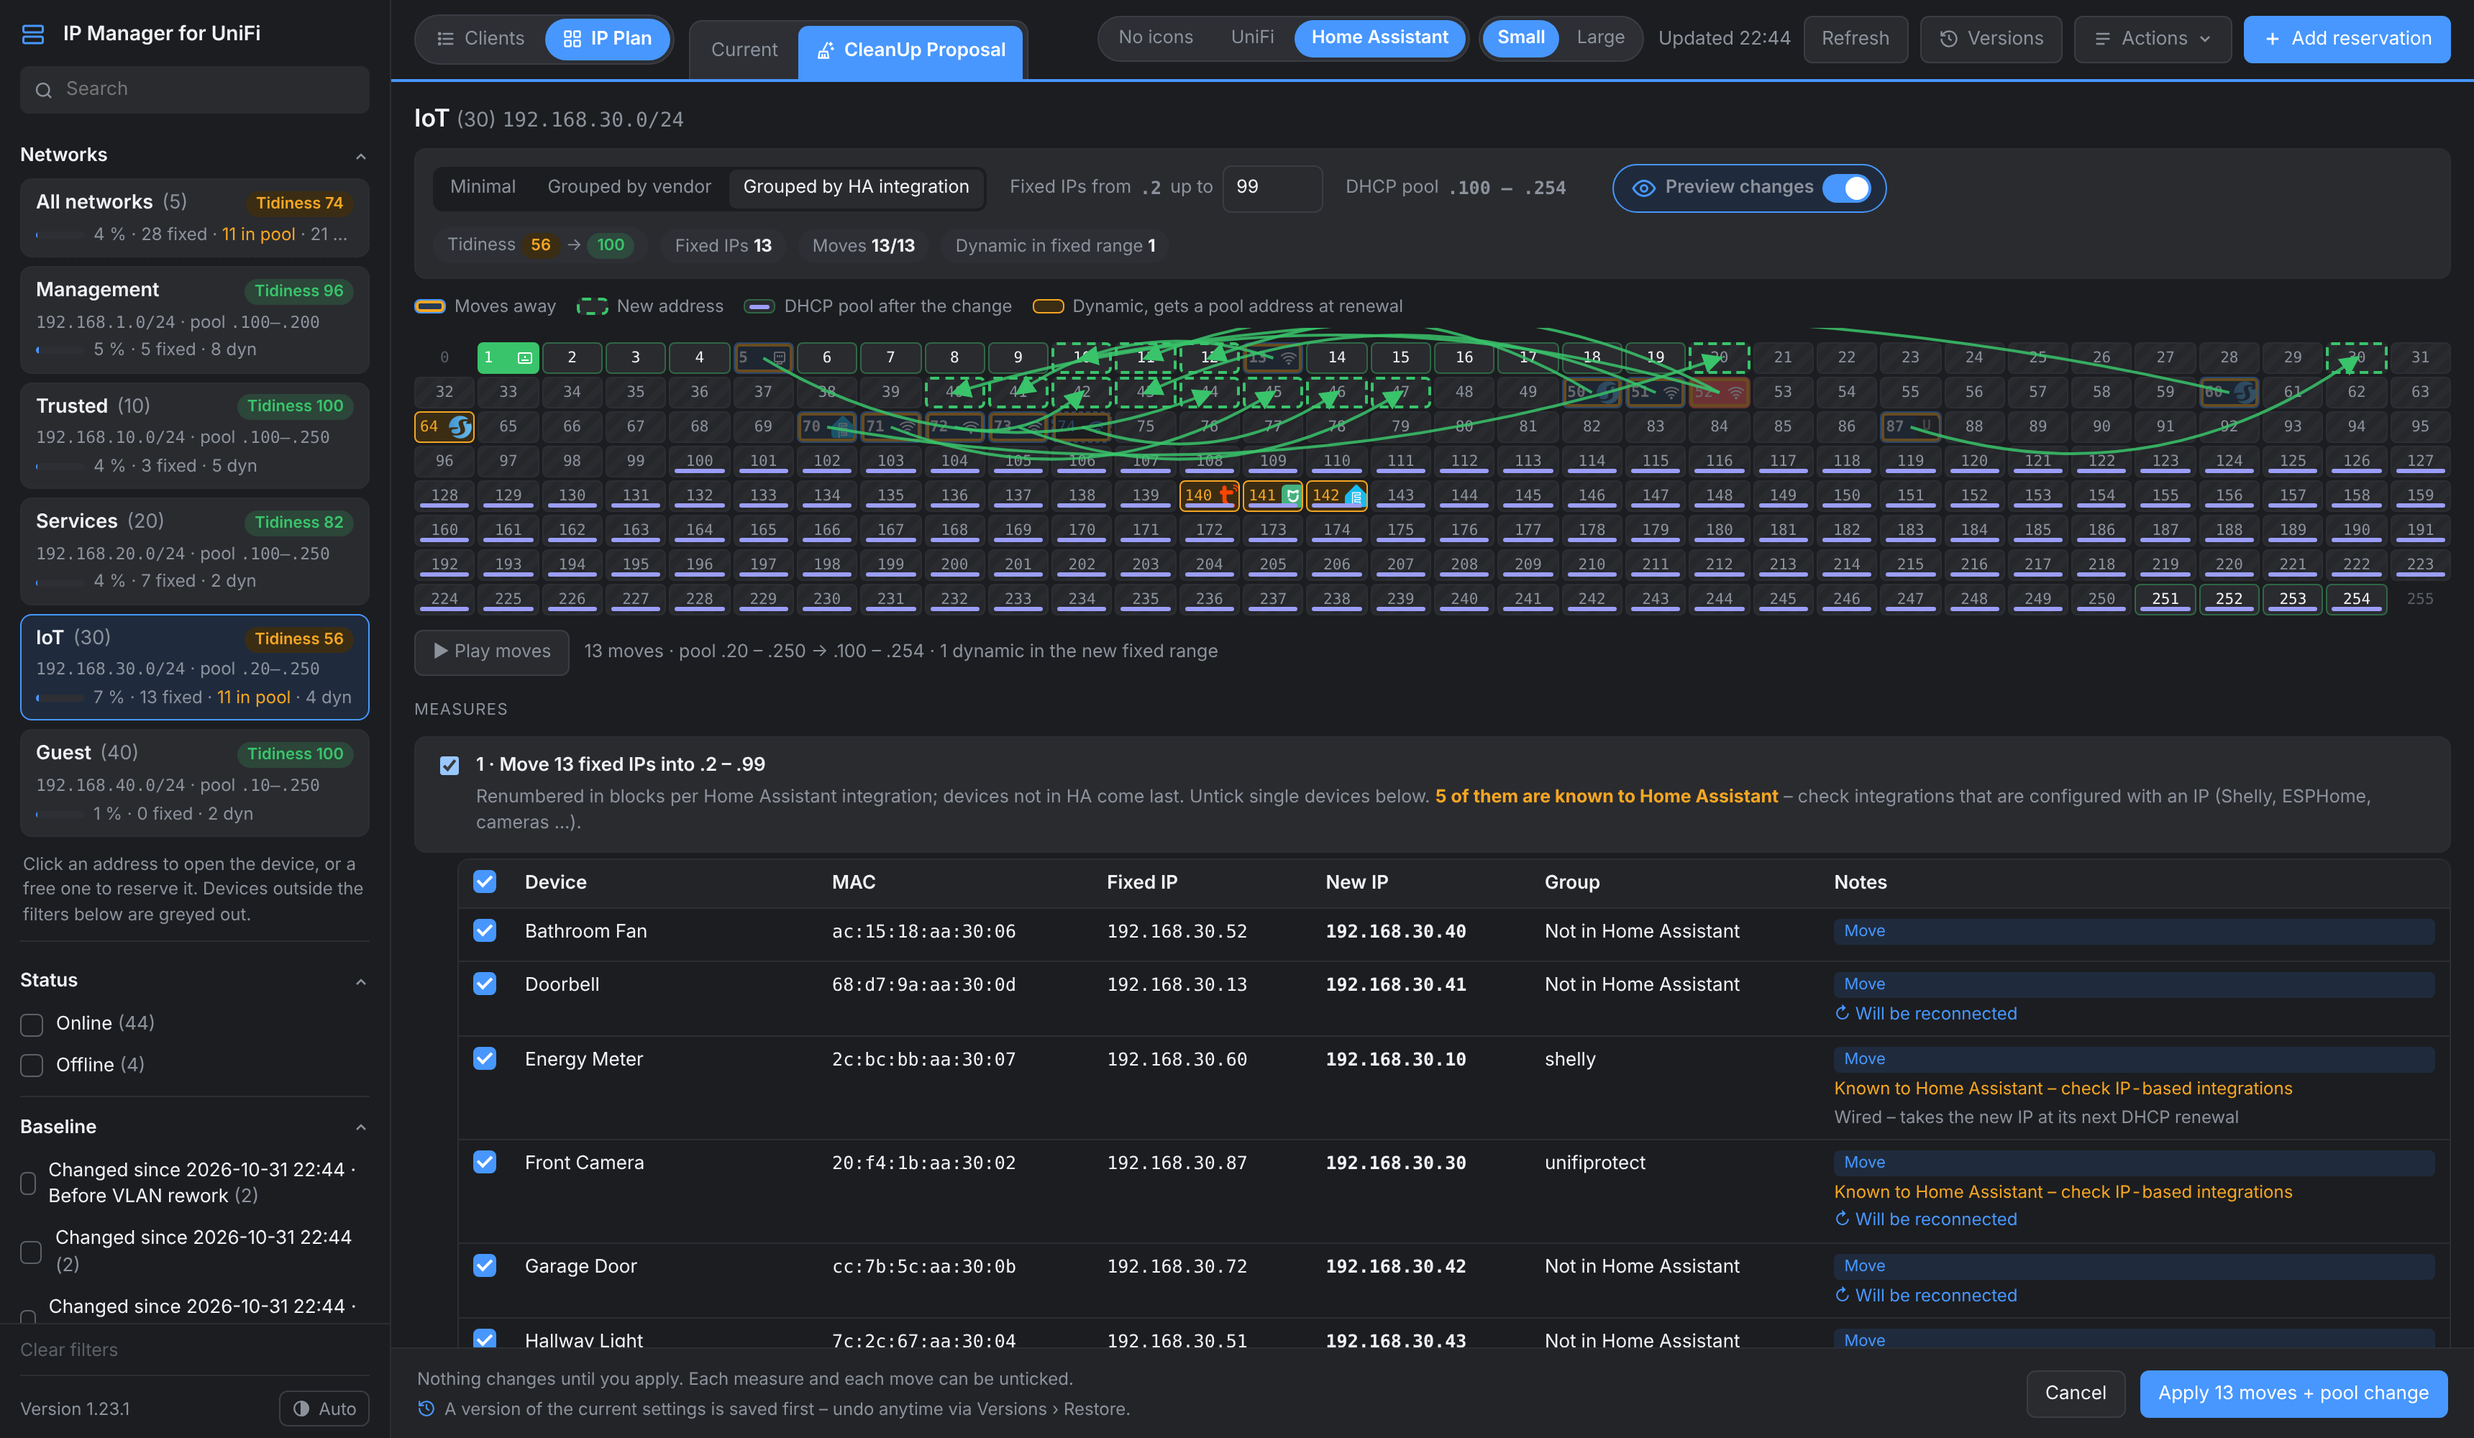
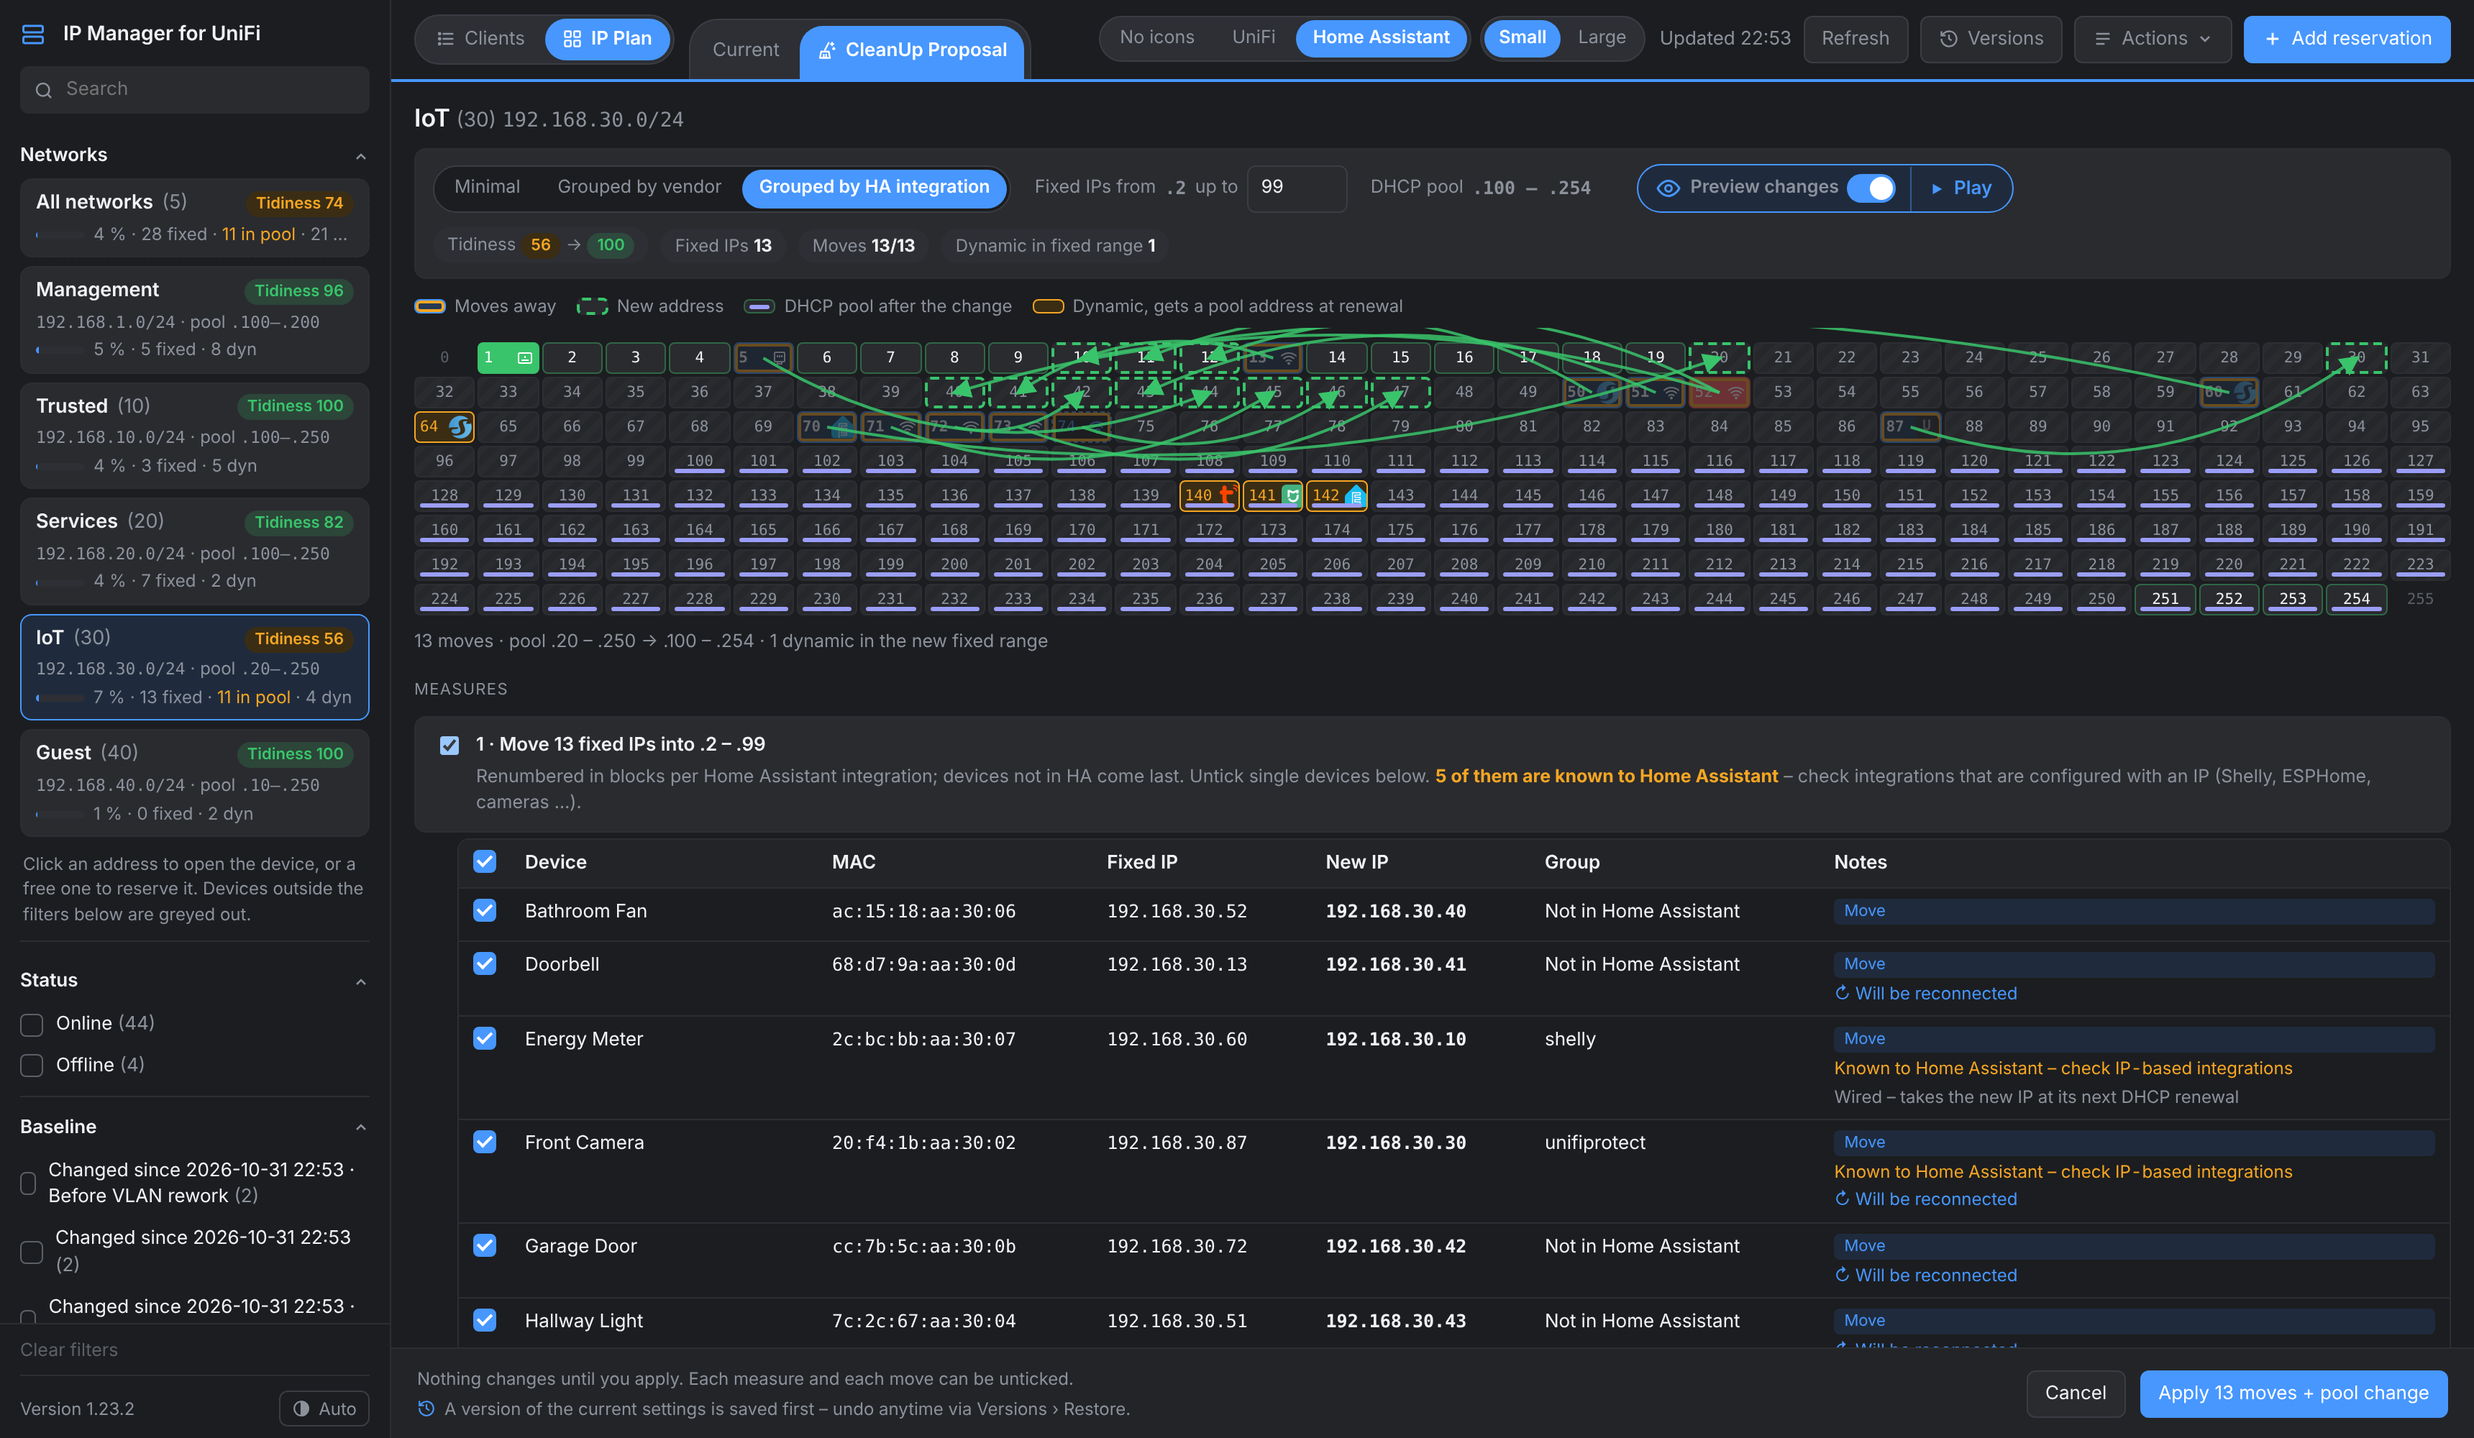
1.23.2: rounded blue switches, conflicts column, Play inside the Preview changes switch
Claude-Session: https://claude.ai/code/session_01Qq55cKasRq5dm39rxnrsJV

diff --git a/dhcp_reservations/app/static/index.html b/dhcp_reservations/app/static/index.html
@@ -323,12 +323,18 @@ body.plan-mode #lnkCols,body.plan-mode .topbar>.viewsel,body.plan-mode #count,bo
 .tidy.bad{background:var(--bad-bg);color:var(--bad)}
 .plan-head{display:flex;align-items:center;gap:6px 16px;flex-wrap:wrap;margin-bottom:8px}
 /* Current / CleanUp Proposal: tabs on a shared track (between the Clients / IP Plan switch and a tab bar) */
-.topbar .plan-tabs{margin:0 0 -10px;position:relative;z-index:1;border:1px solid var(--line-strong);border-bottom:0;flex:none;gap:2px;background:var(--chip);border-radius:9px 9px 0 0;padding:3px 3px 0;align-self:flex-end} /* -10px = padding: the tabs end exactly on the (blue) header line */
-.plan-tabs button[role="tab"]{font-size:13.5px;padding:7px 14px 9px;border-radius:7px 7px 0 0;border-bottom:0;display:inline-flex;align-items:center}
+.topbar .plan-tabs{margin:0 0 -10px;position:relative;z-index:1;border:1px solid var(--line-strong);border-bottom:0;flex:none;gap:2px;background:var(--chip);border-radius:20px 20px 0 0;padding:4px 4px 0;align-self:flex-end} /* -10px = padding: the tabs end exactly on the (blue) header line */
+.plan-tabs button[role="tab"]{font-size:13.5px;padding:7px 16px 9px;border-radius:16px 16px 0 0;border-bottom:0;display:inline-flex;align-items:center}
 .plan-tabs button[role="tab"]:hover{color:var(--fg)}
 .topbar .plan-tabs button[role="tab"][aria-selected="true"]{background:var(--accent);color:#fff;font-weight:600}
 body.plan-mode .topbar{border-bottom:2px solid var(--accent)}
 .prev-toggle{display:inline-flex;align-items:center;gap:8px;padding:6px 10px 6px 12px;border:1px solid var(--line-strong);border-radius:999px;background:var(--bg);cursor:pointer;font-size:13.5px;font-weight:600;color:var(--fg);user-select:none}
+.prev-group{display:inline-flex;align-items:center;border:1px solid var(--line-strong);border-radius:999px;background:var(--bg)}
+.prev-group:has(input:checked){border-color:var(--accent);background:var(--sel)}
+.prev-group .prev-toggle{border:0;background:transparent}
+.prev-group:has(input:checked) .prev-toggle{background:transparent}
+.play-btn{display:inline-flex;align-items:center;gap:6px;border:0;border-left:1px solid color-mix(in srgb,var(--accent) 45%,transparent);background:transparent;color:var(--accent);font:inherit;font-size:13px;font-weight:600;padding:6px 14px 6px 12px;border-radius:0 999px 999px 0;cursor:pointer}
+.play-btn:hover{background:color-mix(in srgb,var(--accent) 18%,transparent)}
 .prev-toggle input{position:absolute;opacity:0;pointer-events:none}
 .prev-toggle svg{color:var(--muted)}
 .prev-toggle .sw{position:relative;width:34px;height:20px;border-radius:999px;background:var(--line-strong);transition:background .2s}
@@ -367,9 +373,9 @@ body.plan-mode .topbar{border-bottom:2px solid var(--accent)}
 .cl-ctrl{display:flex;flex-wrap:wrap;align-items:center;gap:10px 16px;margin-bottom:10px}
 .cl-ctrl label{font-size:12.5px;color:var(--muted);display:inline-flex;align-items:center;gap:6px}
 .cl-ctrl input[type=number]{width:70px}
-.seg{display:inline-flex;background:var(--bg);border-radius:7px;padding:2px;gap:2px}
-.seg button{border:0;background:transparent;color:var(--muted);padding:4px 10px;border-radius:5px;cursor:pointer;font-size:12.5px}
-.seg button[aria-pressed="true"]{background:var(--card);color:var(--fg)}
+.seg{display:inline-flex;background:var(--bg);border:1px solid var(--line-strong);border-radius:999px;padding:2px;gap:2px}
+.seg button{border:0;background:transparent;color:var(--muted);padding:4px 12px;border-radius:999px;cursor:pointer;font-size:12.5px}
+.seg button[aria-pressed="true"]{background:var(--accent);color:#fff;font-weight:600}
 .cl-tabs{display:flex;gap:4px;border-bottom:1px solid var(--line);margin:6px 0 12px}
 .cl-tabs button[role="tab"]{border:0;background:transparent;color:var(--muted);padding:8px 12px;cursor:pointer;border-bottom:2px solid transparent;font-size:13px}
 .cl-tabs button[role="tab"][aria-selected="true"]{color:var(--fg);border-bottom-color:var(--accent)}
@@ -562,7 +568,7 @@ body.side-off .menu-btn{display:inline-flex}
         <label class="cl-one">DHCP pool <b class="mono" id="clPool"></b></label>
         <label class="cl-multi" title="Size of the fixed block at the start of every network; empty = a suggestion per network">Fixed block <input type="number" id="clPct" min="10" max="90" step="5" placeholder="auto"> % of each network</label>
         <span class="sp"></span>
-        <label class="prev-toggle" title="Show every move as an arrow and play the animation"><input type="checkbox" id="clPreview"><svg width="18" height="18" viewBox="0 0 24 24" fill="none" stroke="currentColor" stroke-width="2" stroke-linecap="round" stroke-linejoin="round" aria-hidden="true"><path d="M2 12s3.6-7 10-7 10 7 10 7-3.6 7-10 7S2 12 2 12z"/><circle cx="12" cy="12" r="3"/></svg><span>Preview changes</span><i class="sw" aria-hidden="true"></i></label>
+        <span class="prev-group"><label class="prev-toggle" title="Show every move as an arrow and play the animation"><input type="checkbox" id="clPreview"><svg width="18" height="18" viewBox="0 0 24 24" fill="none" stroke="currentColor" stroke-width="2" stroke-linecap="round" stroke-linejoin="round" aria-hidden="true"><path d="M2 12s3.6-7 10-7 10 7 10 7-3.6 7-10 7S2 12 2 12z"/><circle cx="12" cy="12" r="3"/></svg><span>Preview changes</span><i class="sw" aria-hidden="true"></i></label><button class="play-btn" type="button" id="cgPlay" hidden title="Play the moves again" aria-label="Play moves"><svg width="11" height="11" viewBox="0 0 24 24" fill="currentColor" aria-hidden="true"><path d="M6 4l14 8-14 8z"/></svg>Play</button></span>
         <span id="clSum" class="sumrow" style="margin:0;flex-basis:100%"></span>
       </div>
       <div id="clErr"></div>
@@ -1458,7 +1464,7 @@ function renderClean() {
     before = tidyAvg(ps.map(p => tidiness(p))); after = tidyAvg(ps.map(p => byId.has(p.n.id) ? tidyAfter(byId.get(p.n.id)) : tidiness(p)));
   }
   $("#clSum").innerHTML = `<span class="pill">${multi ? "Overall tidiness" : "Tidiness"} ${tidyBadge(before)} → ${tidyBadge(after)}</span>${multi ? `<span class="pill">Networks <b>${inc.length}/${bs.length}</b></span>` : ""}<span class="pill">Fixed IPs <b>${fixedN}</b></span><span class="pill">Moves <b>${sel.length}/${CL.rows.length}</b></span>${multi ? `<span class="pill">Pool changes <b>${CL.m.pool ? pools.length : 0}</b></span>` : ""}<span class="pill">Dynamic in fixed range <b>${dynIn.length}</b></span>`;
-  CL.tab = CL.preview ? "chg" : "plan"; $("#clPreview").checked = !!CL.preview; $("#clPreview").disabled = CL.running;
+  CL.tab = CL.preview ? "chg" : "plan"; $("#clPreview").checked = !!CL.preview; $("#clPreview").disabled = CL.running; $("#cgPlay").hidden = CL.tab !== "chg" || !CL.m.move;
   const errs = inc.filter(b => b.err);
   $("#clErr").innerHTML = errs.map(b => `<div class="err">${multi ? esc(b.n.name) + ": " : ""}${esc(b.err)}</div>`).join("");
   // grid(s)
@@ -1468,16 +1474,17 @@ function renderClean() {
     return `<div class="cg-wrap" data-netid="${esc(b.n.id)}"${multi ? "" : ' id="cgWrap"'}><div class="plan-grid">${changeCells(b, s2)}</div><svg class="cg-arrows"></svg></div>`;
   };
   const leg = `<div class="plan-legend-bar">${legend(CL.tab === "plan" ? LEG_PLAN : LEG_CHG)}</div>`;
-  const bar = CL.tab === "chg" ? `<div class="cg-bar"><button class="btn" type="button" id="cgPlay">▶ Play moves</button><span>${CL.m.move ? `${sel.length} ${sel.length === 1 ? "move" : "moves"}` : "Moves are unticked"}${CL.m.pool && pools.length ? ` · ${multi ? `${pools.length} pool ${pools.length === 1 ? "change" : "changes"}` : `pool ${poolTxt(b0.p.ps, b0.p.pe)} → ${poolTxt(b0.poolS, b0.poolE)}`}` : ""}${dynIn.length ? ` · ${dynIn.length} dynamic in the new fixed range` : ""}</span></div>` : "";
+  const bar = CL.tab === "chg" ? `<div class="cg-bar"><span>${CL.m.move ? `${sel.length} ${sel.length === 1 ? "move" : "moves"}` : "Moves are unticked"}${CL.m.pool && pools.length ? ` · ${multi ? `${pools.length} pool ${pools.length === 1 ? "change" : "changes"}` : `pool ${poolTxt(b0.p.ps, b0.p.pe)} → ${poolTxt(b0.poolS, b0.poolE)}`}` : ""}${dynIn.length ? ` · ${dynIn.length} dynamic in the new fixed range` : ""}</span></div>` : "";
   if (!multi) $("#clGrid").innerHTML = leg + grid(b0) + bar;
   else if (!bs.length) $("#clGrid").innerHTML = `<p class="hint" style="padding:12px 0">Nothing to clean up – every network already has its fixed IPs in one block outside the DHCP pool.</p>`;
   else {
-    const tbl = `<div class="imp-table cl-nets"><table><thead><tr><th style="width:34px"></th><th>Network</th><th>Fixed block</th><th>DHCP pool</th><th>Moves</th><th>Tidiness</th></tr></thead><tbody>${bs.map(b => `<tr class="${b.inc ? "" : "off"}">
+    const tbl = `<div class="imp-table cl-nets"><table><thead><tr><th style="width:34px"></th><th>Network</th><th>Fixed block</th><th>DHCP pool</th><th>Moves</th><th title="Dynamic clients that currently use an address inside the new fixed block – they get a pool address at their next DHCP renewal">Conflicts</th><th>Tidiness</th></tr></thead><tbody>${bs.map(b => `<tr class="${b.inc ? "" : "off"}">
       <td><label class="opt"><input type="checkbox" data-cn="${esc(b.n.id)}" ${b.inc ? "checked" : ""} ${CL.running || CL.done ? "disabled" : ""} aria-label="Include ${esc(b.n.name)}"></label></td>
       <td><b>${esc(b.n.name)}</b>${b.n.vlan ? ` <span class="muted">(${b.n.vlan})</span>` : ""} <span class="muted mono">${esc(b.n.subnet)}</span>${b.err ? ` <span class="tag bad">${esc(b.err)}</span>` : ""}</td>
       <td class="mono">.${b.first & 255} – .${b.end & 255}</td>
       <td class="mono">${b.poolChange ? `${poolTxt(b.p.ps, b.p.pe)} → <b>${poolTxt(b.poolS, b.poolE)}</b>` : `<span class="muted">${poolTxt(b.p.ps, b.p.pe)} (stays)</span>`}</td>
       <td>${b.rows.filter(r => r.sel).length}/${b.rows.length}</td>
+      <td>${b.dynIn.length ? `<span class="tag warn" title="${esc(b.dynIn.map(c => `${c.name || c.hostname || c.mac} (${c.ip})`).join("\n"))}">${b.dynIn.length}</span>` : `<span class="muted">0</span>`}</td>
       <td>${tidyBadge(tidiness(b.p))} → ${tidyBadge(tidyAfter(b))}</td></tr>`).join("")}</tbody></table></div>`;
     $("#clGrid").innerHTML = tbl + leg + inc.map(b => `<section class="plan-sec"><div class="plan-sec-h" style="cursor:default"><b>${esc(b.n.name)}</b>${b.n.vlan ? ` <span class="muted">(${b.n.vlan})</span>` : ""} <span class="muted mono">${esc(b.n.subnet)}</span> ${tidyBadge(tidiness(b.p))} → ${tidyBadge(tidyAfter(b))}</div>${grid(b)}</section>`).join("") + bar;
   }
@@ -1565,9 +1572,9 @@ $("#clGrid").addEventListener("change", e => { const id = e.target.dataset?.cn; 
 document.querySelectorAll("[data-cs]").forEach(x => x.addEventListener("click", () => { if (CL.running || CL.done) return; CL.strategy = x.dataset.cs; CL.rows = []; renderClean(); }));
 $("#clPreview").addEventListener("change", e => { CL.preview = e.target.checked; CL.played = false; renderClean(); });
 $("#planClean").addEventListener("change", e => { const k = e.target.dataset?.cm; if (k) { CL.m[k] = e.target.checked; CL.played = true; renderClean(); } });
+$("#cgPlay").addEventListener("click", () => cgEach((s2, w) => { drawArrows(s2, w); playMoves(s2, w); }));
 const cgEach = fn => { const sel = CL.rows.filter(r => r.sel); for (const w of document.querySelectorAll("#clGrid .cg-wrap")) fn(sel.filter(r => r.b.n.id === w.dataset.netid), w); };
 $("#clGrid").addEventListener("click", e => {
-  if (e.target.closest("#cgPlay")) { cgEach((s2, w) => { drawArrows(s2, w); playMoves(s2, w); }); return; }
   const d = e.target.closest(".pc[data-mac]"), c = d?.dataset.mac && state.clients.find(x => x.mac === d.dataset.mac);
   if (c) openPanel(c); // the proposal stays open next to the detail panel
 });

diff --git a/dhcp_reservations/CHANGELOG.md b/dhcp_reservations/CHANGELOG.md
@@ -1,5 +1,10 @@
 # Changelog
 
+## 1.23.2 – 2026-10-31
+- **Play** moved up into the *Preview changes* switch (appears when the preview is on).
+- CleanUp for all networks: new column **Conflicts** – dynamic clients that currently use an address inside the new fixed block (0 when none; hover for the devices). They get a pool address at their next DHCP renewal.
+- Uniform rounded look: the *Current / CleanUp Proposal* tabs have round tops, all switches are rounded pills and the selected option is blue – e.g. the CleanUp strategy *Minimal / Grouped by vendor / Grouped by HA integration* and the naming options in *Names from Home Assistant*.
+
 ## 1.23.1 – 2026-10-31
 - **IP plan cell size Small / Large** (switch next to the icon switch, remembered): *Small* is a compact view – lower cells and 32 addresses per row when there is room; *Large* has tall cells with big icons. The height no longer changes with the icons: the address sits on the left, the icon on the right using the full inner height.
 - **Fixed IP, in use** is now a blue frame with a light transparent fill (like *Dynamic, in use*) instead of a solid block; *Fixed IP, not in use* has a dashed frame.
